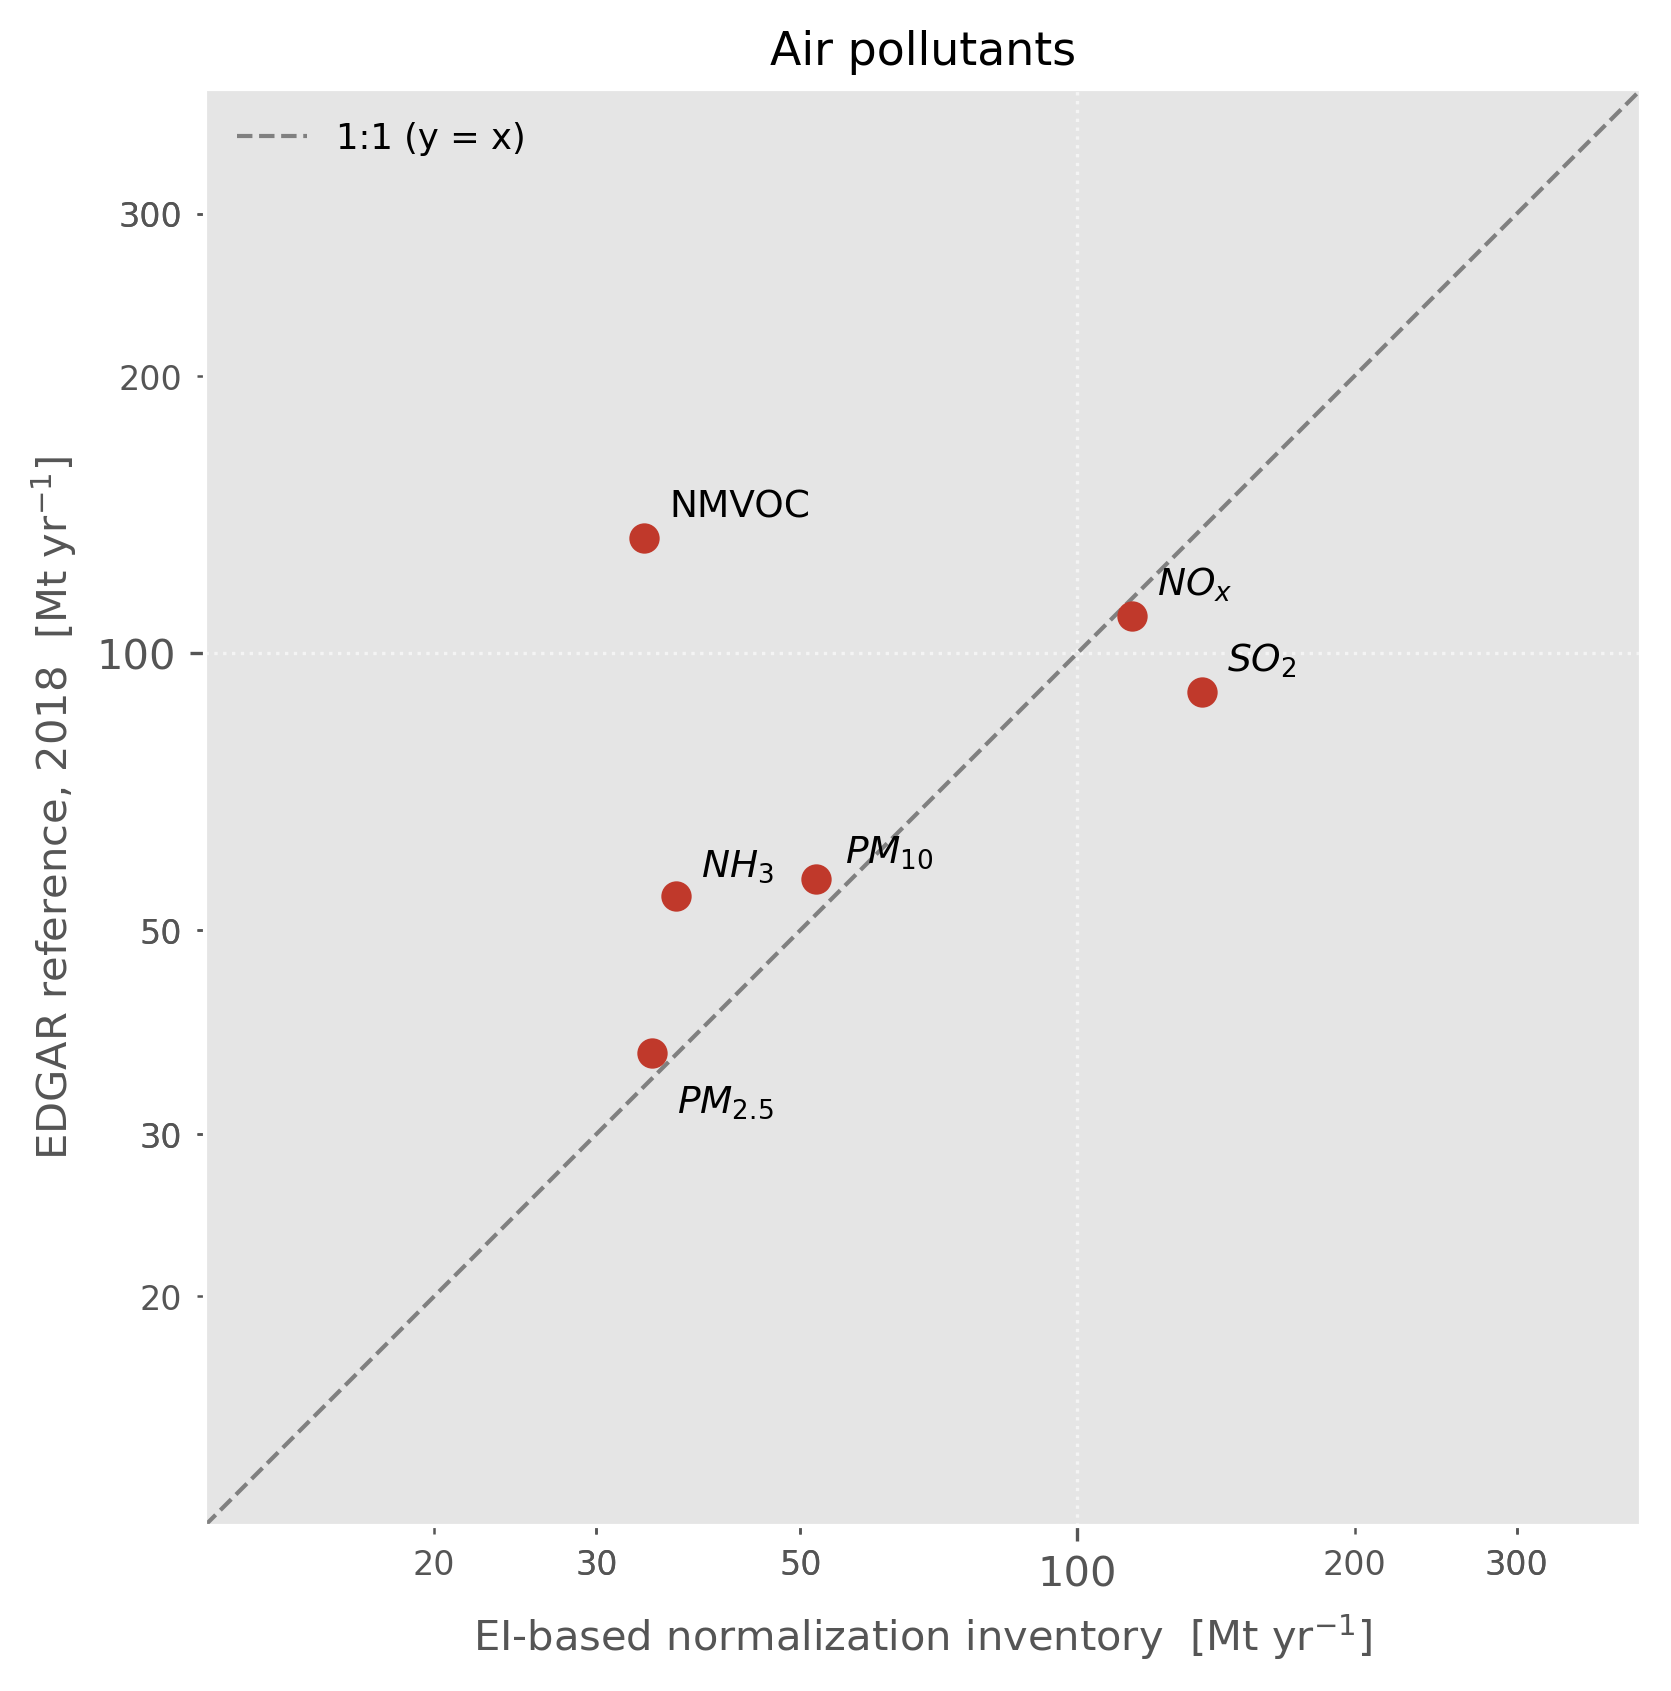
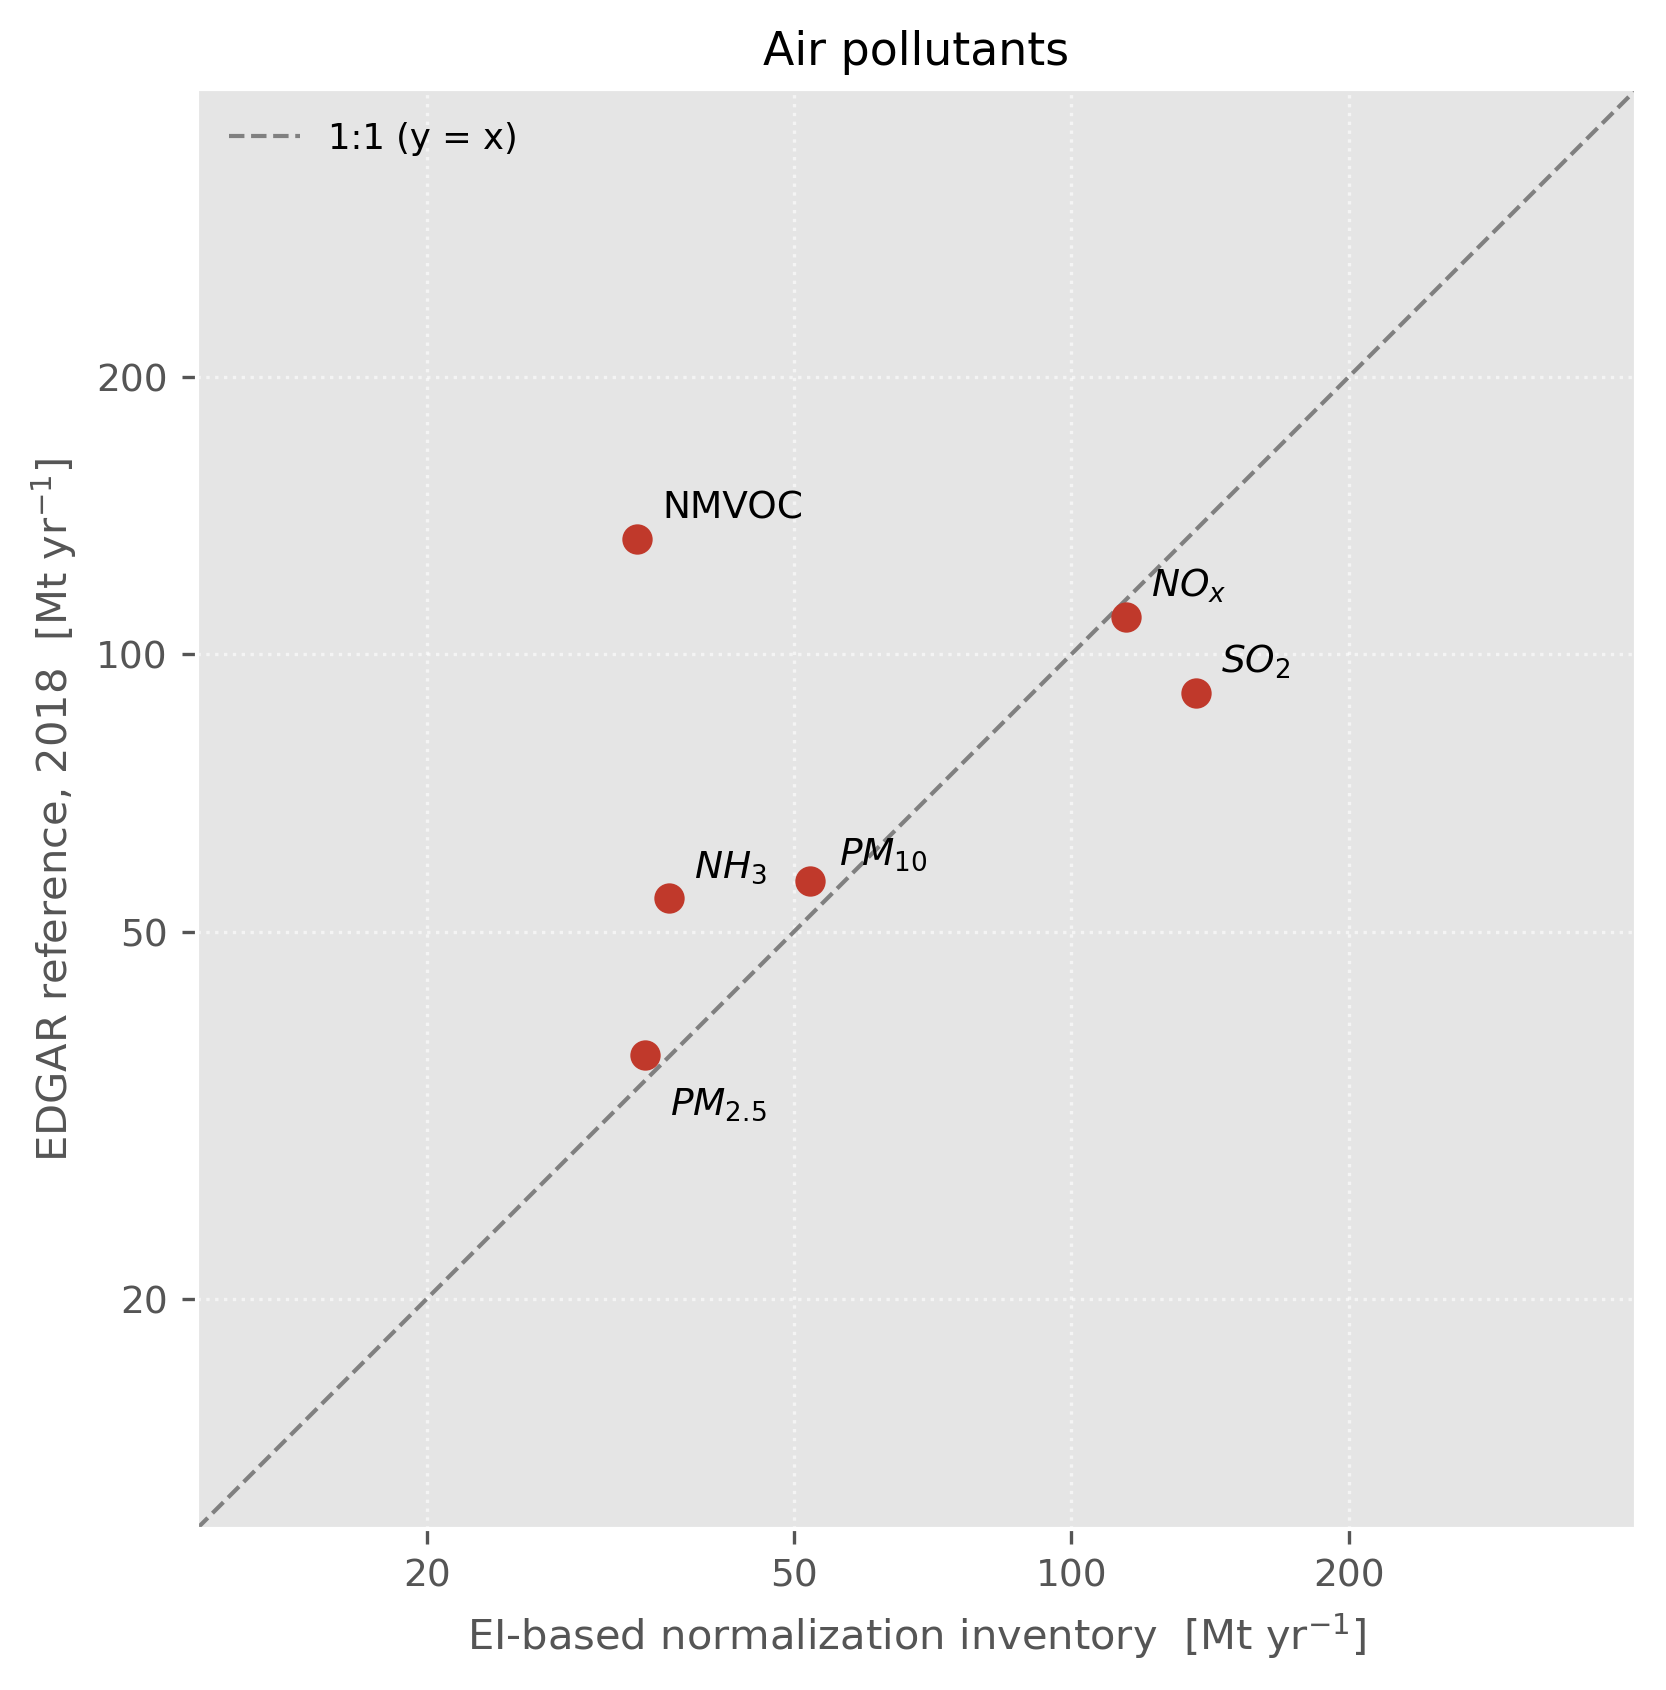
Cleaner log ticks on the narrow-range panel (1-2-5 series, uniform label size)

diff --git a/src/make_figures.py b/src/make_figures.py
@@ -98,14 +98,15 @@ def draw_panel(ax, subset: pd.DataFrame, title: str,
     ax.set_ylim(lo, hi)
     ax.set_aspect("equal")          # keeps the 1:1 line at 45 degrees
 
-    # narrow ranges get plain numeric ticks (incl. minor) instead of 10^n only
+    # A narrow range spans well under one decade, so 10^n ticks alone are too
+    # sparse. Label the conventional 1-2-5 series instead, at a single font size
+    # so that decade and intermediate ticks are not visually distinguishable.
     if np.log10(hi / lo) < 2.5:
         for axis in (ax.xaxis, ax.yaxis):
-            axis.set_major_locator(mticker.LogLocator(base=10, subs=(1.0,)))
-            axis.set_minor_locator(mticker.LogLocator(base=10, subs=(0.3, 0.5, 2.0, 3.0, 5.0)))
+            axis.set_major_locator(mticker.LogLocator(base=10, subs=(1.0, 2.0, 5.0)))
             axis.set_major_formatter(mticker.ScalarFormatter())
-            axis.set_minor_formatter(mticker.ScalarFormatter())
-        ax.tick_params(axis="both", which="minor", labelsize=8)
+            axis.set_minor_locator(mticker.NullLocator())
+        ax.tick_params(axis="both", which="major", labelsize=9)
 
     ax.set_xlabel(XLABEL, fontsize=10)
     if show_ylabel:
